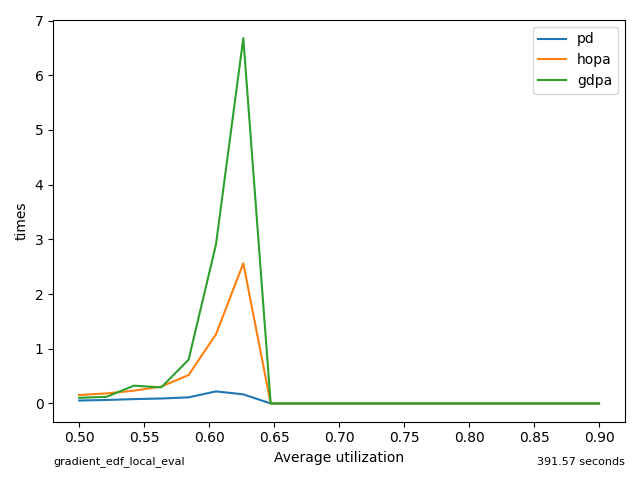
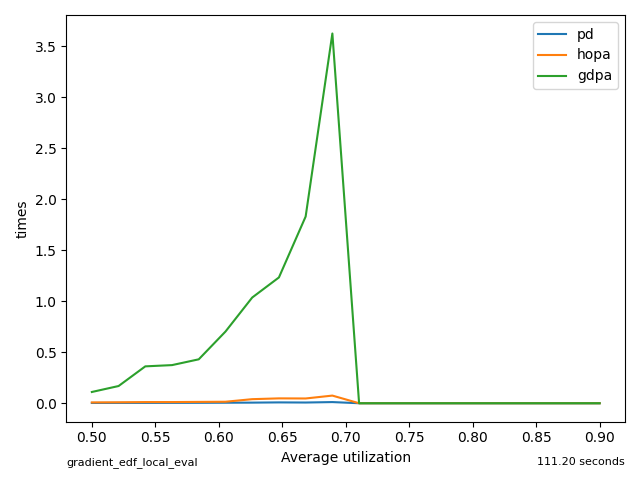
replicate edf-l

diff --git a/gradient_descent/parameter_handlers.py b/gradient_descent/parameter_handlers.py
@@ -6,15 +6,15 @@ import math
 class DeadlineExtractor(ParameterHandler):
     def extract(self, system: LinearSystem) -> [float]:
         max_d = max([flow.deadline for flow in system.flows])
-        x = [t.deadline / max_d for t in system.tasks]
+        x = [sigmoid(t.deadline / max_d) for t in system.tasks]
         return x
 
     def insert(self, system: LinearSystem, x: [float]):
         max_d = max([flow.deadline for flow in system.flows])
         tasks = system.tasks
         assert len(tasks) == len(x)
-        for v, t in zip(x, tasks):
-            t.deadline = min(max(v, 0.0), 1.0) * max_d
+        for v, t in zip(x, system.tasks):
+            t.deadline = v * max_d                   
 
 
 class PriorityExtractor(ParameterHandler):

diff --git a/workspace/framework_paper/edf-local/gradient_edf_local_val.py b/workspace/framework_paper/edf-local/gradient_edf_local_val.py
@@ -64,7 +64,7 @@ if __name__ == '__main__':
     systems = [get_system(size, rnd, balanced=True, name=str(i),
                           deadline_factor_min=0.5, sched=SchedulerType.EDF,
                           deadline_factor_max=1,
-                          period_min=100, period_max=100000) for i in range(n)]
+                          period_min=100, period_max=1000) for i in range(n)]
 
     # utilizations between 50 % and 90 %
     utilizations = np.linspace(0.5, 0.9, 20)
